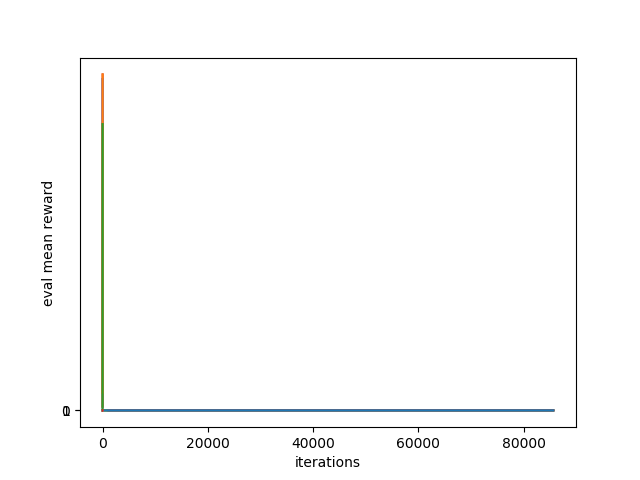
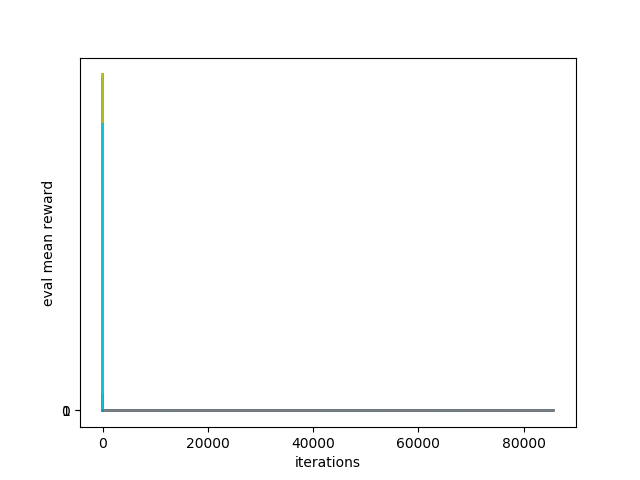
Breakout stat

Changed region(s): [[0.1562, 0.1562, 0.8438, 0.875]]

diff --git a/statistics/statistics.py b/statistics/statistics.py
@@ -29,8 +29,9 @@ def create_plot(x, x_label, y, y_label, file_name):
     plt.xlabel(x_label)
     min_y = int(min(y))
     max_y = int(max(y))
-    plt.yticks(range(min_y, max_y, int((max_y - min_y) / 10)))
+    plt.yticks(range(min_y, max_y, max((max_y - min_y) // 10, 1)))
     plt.savefig(file_name)
+    plt.clf()
 
 def make_stat(in_path, out_dir):
     create_plots_from_file(in_path, out_dir)
